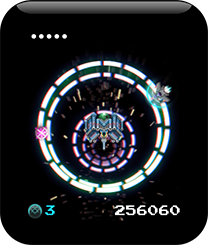
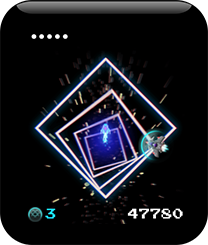
final edits

Changed region(s): [[0.1154, 0.2286, 0.8942, 0.9143], [0.1442, 0.1429, 0.3462, 0.1714], [0.3173, 0.8286, 0.3462, 0.8571]]

diff --git a/css/site.css b/css/site.css
@@ -209,7 +209,12 @@ img.center{
 	width: 208px;
 	height: 245px;
 	margin: 0 auto;
+	padding-top: 12px;
+}
 
+.header-shot video{
+	margin: 0 auto 0;
+	display: block;
 }
 
 .final{
@@ -279,9 +284,9 @@ ul.team li a.kai 		{ background-image: url("../img/team/kai@2x.png"); }
 
 section.header{
 	min-height: 72vh;
-  height: 410px;
   position: relative;
   z-index: 9;
+  margin-bottom: 44px;
 }
 
 .dynamicbg{
@@ -409,8 +414,6 @@ section.maincontent h3{
 	}
 	section.header{
 		min-height: 560px;
-		height: 560px;
-
 	}
 }
 
@@ -449,7 +452,7 @@ section.maincontent h3{
 		margin-bottom: 3vh;
 	}
 	section.maincontent{
-		min-height: 117vh;
+		min-height: 77vh;
 	}
 }
 

diff --git a/index.html b/index.html
@@ -28,7 +28,12 @@
           <div id="logo" class="hidetext">WarpJammer</div>
           <p class="center">A game for Apple Watch</p>
           <div class="col-sm-4 col-sm-offset-4"> 
-            <div class="header-shot"></div>
+            <div class="header-shot">
+              <video width="174px" height="219px" autoplay loop muted webkit-playsinline>
+                <source src="video/demo.mp4" type="video/mp4">
+                <source src="video/demo.ogv" type="video/ogg">
+              </video>
+            </div>
           </div>
         </section>
         <div class="dynamicbg"></div>
